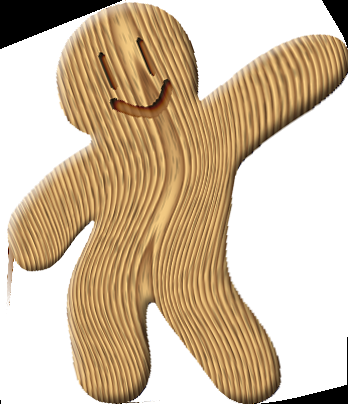
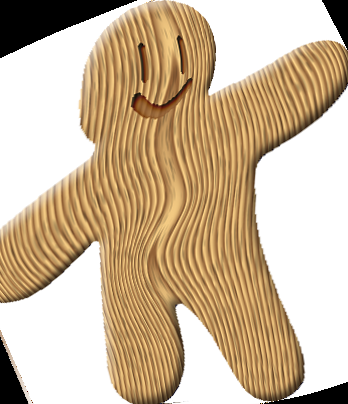
arrange the code

diff --git a/HW2/MathMethods18-Ex02-20183151-Chaelin-Kim/MathMethods18-Ex02-20183151-Chaelin-Kim/code/makeDefImgBack.m b/HW2/MathMethods18-Ex02-20183151-Chaelin-Kim/MathMethods18-Ex02-20183151-Chaelin-Kim/code/makeDefImgBack.m
@@ -8,15 +8,14 @@ v = reshape([X Y], [], 2);
 % -> size: ((row * columns)x2)
 reshapeImg = reshape(originImg, rows*columns, numOfColorChannels);
 
-% Deform the image
-% Use griddata to find the new values of the new transformed coordinates
-% Color channel: Red(1), Green(2), Blue(3)
+% Deform the image using griddata for interpolation
 bDefCoord_x = reshape(bDefCoord(:,1), rows, columns);
 bDefCoord_y = reshape(bDefCoord(:,2), rows, columns);
 defImg = uint8(zeros(rows, columns, numOfColorChannels));
 for itr = 1:numOfColorChannels
     defImg(:,:,itr) = uint8(griddata(v(:,1), v(:,2), double(reshapeImg(:,itr)), bDefCoord_x, bDefCoord_y, 'cubic'));
 end
+
 
 % No interpolation
 % defImg = zeros(size(reshapeImg));
@@ -30,6 +29,33 @@ end
 %     if y >= rows,    y = rows;    end
 %     
 %     defImg(itr, :) = reshapeImg((x-1) * rows + y, :);
+% end
+% defImg = uint8(reshape(defImg, rows, columns, numOfColorChannels));
+
+% With interpolation
+% defImg = zeros(rows*columns, numOfColorChannels);
+% for itr=1:size(reshapeImg,1)
+%     if (bDefCoord(itr,1) >= 1 && bDefCoord(itr,1) <= 348 && bDefCoord(itr,2) >= 1 && bDefCoord(itr,2) <= 404)
+%         A = [floor(bDefCoord(itr,1)), ceil(bDefCoord(itr,2))];
+%         B = [floor(bDefCoord(itr,1)), floor(bDefCoord(itr,2))];
+%         C = [ceil(bDefCoord(itr,1)), floor(bDefCoord(itr,2))];
+%         D = [ceil(bDefCoord(itr,1)), ceil(bDefCoord(itr,2))];
+%         h1 = abs(bDefCoord(itr,2) - A(2));
+%         h2 = abs(bDefCoord(itr,2) - B(2));
+%         w1 = abs(bDefCoord(itr,1) - B(1));
+%         w2 = abs(bDefCoord(itr,1) - C(1));
+% 
+%         a = h1 / (h1 + h2);
+%         b = h2 / (h1 + h2);
+%         p = w1 / (w1 + w2);
+%         q = w2 / (w1 + w2);
+%         
+%         temp = (q.*b.*originImg(A(2),A(1),:)) + (q.*a.*originImg(B(2),B(1),:)) + ...
+%                             (p.*b.*originImg(D(2),D(1),:)) + (p.*a.*originImg(C(2),C(1),:));
+%         defImg(itr, :) = temp;
+%     else
+%         defImg(itr, :) = [255, 255, 255];
+%     end
 % end
 % defImg = uint8(reshape(defImg, rows, columns, numOfColorChannels));
 

diff --git a/HW2/MathMethods18-Ex02-20183151-Chaelin-Kim/MathMethods18-Ex02-20183151-Chaelin-Kim/code/main.m b/HW2/MathMethods18-Ex02-20183151-Chaelin-Kim/MathMethods18-Ex02-20183151-Chaelin-Kim/code/main.m
@@ -3,7 +3,6 @@ clear;
 %% Initial Setting
 imgFilePath = '../materials/ginger.png';
 srcImg = imread(imgFilePath);
-% srcImg = imread('../materials/Pooh.jpg');
 
 [rows, columns, ~] = size(srcImg);
 
@@ -17,15 +16,15 @@ vLen = size(v,1);
 weightAlpha = 1.1;
 
 % % Example Control point
-% sourceCP = [[166, 55]; [40, 157]; [175, 185]; [270, 157]; [335, 157]; ...
-%             [181, 262]; [118, 369]; [252, 369]];
-% targetCP = [[166, 55]; [8, 268]; [175, 185]; [271, 111]; [338, 57]; ...
-%             [160, 266]; [147, 369]; [272, 369]];
+sourceCP = [[166, 55]; [40, 157]; [175, 185]; [270, 157]; [335, 157]; ...
+            [181, 262]; [118, 369]; [252, 369]];
+targetCP = [[166, 55]; [8, 268]; [175, 185]; [271, 111]; [338, 57]; ...
+            [160, 266]; [147, 369]; [272, 369]];
 
-sourceCP = [[18,168]; [173,157]; [339, 160]; [129, 299]; [227, 294]; ...
-            [116, 390]; [263, 392]];
-targetCP = [[30, 250]; [173,157]; [341, 55]; [98, 299]; [188, 294]; ...
-            [116, 390]; [263, 392]];
+% sourceCP = [[18, 168]; [173, 157]; [339, 160]; [129, 280]; [227, 280]; ...
+%             [116, 390]; [263, 392]];
+% targetCP = [[30, 250]; [173, 157]; [341, 55]; [98, 280]; [188, 280]; ...
+%             [116, 390]; [263, 392]];
 
 %% Show the original image
 % Select some input and output control points

diff --git a/HW2/MathMethods18-Ex02-20183151-Chaelin-Kim/MathMethods18-Ex02-20183151-Chaelin-Kim/code/makeDefImg.m b/HW2/MathMethods18-Ex02-20183151-Chaelin-Kim/MathMethods18-Ex02-20183151-Chaelin-Kim/code/makeDefImg.m
@@ -7,9 +7,7 @@ function [defImg] = makeDefImg( originImg, defCoord )
 % -> size: ((row * columns)x2)
 reshapeImg = reshape(originImg, rows*columns, numOfColorChannels);
 
-% Deform the image with interpolation
-% Use griddata to find the new values of the new transformed coordinates
-% Color channel: Red(1), Green(2), Blue(3)
+% Deform the image with interpolation using griddata
 defImg = uint8(zeros(rows, columns, numOfColorChannels));
 for itr = 1:numOfColorChannels
     defImg(:,:,itr) = uint8(griddata(defCoord(:,1), defCoord(:,2), double(reshapeImg(:,itr)), X, Y, 'cubic'));
@@ -25,7 +23,7 @@ end
 %     if y <= 0, y = 1; end
 %     if x >= columns, x = columns; end
 %     if y >= rows,    y = rows;    end
-%
+% 
 %     defImg((x-1) * rows + y, :) = reshapeImg(itr, :);
 % end
 % 
